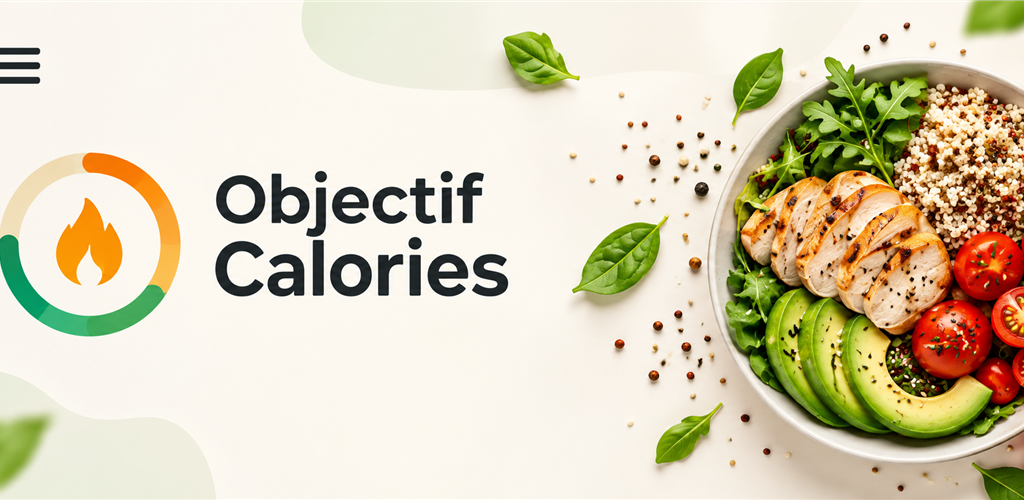
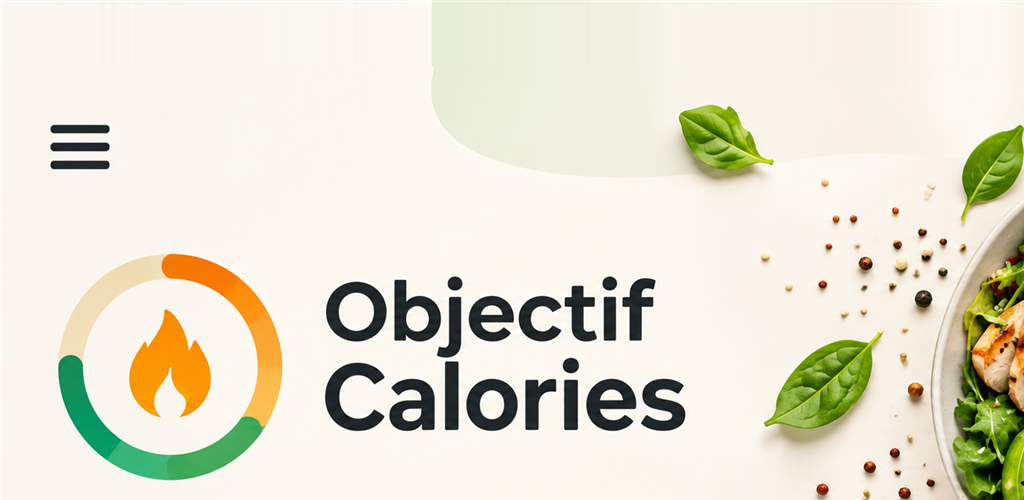
Agrandit le bouton menu de l'en-tête, ajoute les captures d'écran et une section dédiée à la suppression des données
- AppTopBar : le hamburger est maintenant une vraie icône vectorielle plus
  grande par-dessus la bannière (au lieu du minuscule hamburger dessiné dans
  l'image), avec une marge ajoutée en haut de l'image pour que le logo ne
  soit plus collé au bord.
- Captures d'écran réelles ajoutées pour la fiche Play Store, feature graphic
  régénéré à partir de la bannière mise à jour.
- Politique de confidentialité : nouvelle section "Suppression de vos
  données" dédiée, pour la déclaration Sécurité des données de Play Console.

diff --git a/app/src/main/java/com/legoueix/objectifcalories/ui/AppTopBar.kt b/app/src/main/java/com/legoueix/objectifcalories/ui/AppTopBar.kt
@@ -1,12 +1,17 @@
 package com.legoueix.objectifcalories.ui
 
 import androidx.compose.foundation.Image
+import androidx.compose.foundation.background
 import androidx.compose.foundation.layout.Box
 import androidx.compose.foundation.layout.aspectRatio
 import androidx.compose.foundation.layout.fillMaxWidth
 import androidx.compose.foundation.layout.padding
 import androidx.compose.foundation.layout.size
 import androidx.compose.foundation.layout.statusBarsPadding
+import androidx.compose.foundation.shape.CircleShape
+import androidx.compose.material.icons.Icons
+import androidx.compose.material.icons.filled.Menu
+import androidx.compose.material3.Icon
 import androidx.compose.material3.IconButton
 import androidx.compose.material3.MaterialTheme
 import androidx.compose.material3.Surface
@@ -20,11 +25,16 @@ import androidx.compose.ui.semantics.contentDescription
 import androidx.compose.ui.semantics.semantics
 import androidx.compose.ui.unit.dp
 import com.legoueix.objectifcalories.R
+import com.legoueix.objectifcalories.ui.theme.Charcoal
+import com.legoueix.objectifcalories.ui.theme.OffWhite
 
-// Ratio réel du bandeau (1879 × 837 px) : affiché intact, sans recadrage, pour ne
-// perdre ni le logo ni la photo — demandé explicitement tel quel malgré la place
-// que ça prend sur un écran de téléphone.
-private const val RATIO_BANNIERE = 1879f / 837f
+// Image affichée intacte (photo d'assiette comprise) — recadrer/zoomer pour agrandir
+// le bouton menu mangeait la photo (déjà essayé, refusé). À la place : un vrai bouton
+// ☰ (vectoriel, donc net à toute taille) dessiné par-dessus, sur un disque qui masque
+// le minuscule hamburger déjà présent dans l'image. L'asset a aussi une bande de marge
+// ajoutée en haut (837 → 927 px de haut, largeur inchangée) pour que "Objectif
+// Calories" ne soit plus collé au bord et paraisse plus bas dans le bandeau.
+private const val RATIO_BANNIERE = 1879f / 927f
 
 @Composable
 fun AppTopBar(onOpenMenu: () -> Unit, modifier: Modifier = Modifier) {
@@ -43,16 +53,22 @@ fun AppTopBar(onOpenMenu: () -> Unit, modifier: Modifier = Modifier) {
                     .fillMaxWidth()
                     .aspectRatio(RATIO_BANNIERE),
             )
-            // Le bouton menu est déjà dessiné dans l'image (coin haut-gauche) : cette zone
-            // transparente le rend cliquable au même endroit sans le dessiner une deuxième fois.
             IconButton(
                 onClick = onOpenMenu,
                 modifier = Modifier
                     .align(Alignment.TopStart)
-                    .padding(top = 4.dp)
-                    .size(52.dp)
+                    .padding(6.dp)
+                    .size(56.dp)
+                    .background(OffWhite, CircleShape)
                     .semantics { contentDescription = descriptionMenu },
-            ) {}
+            ) {
+                Icon(
+                    imageVector = Icons.Default.Menu,
+                    contentDescription = null,
+                    tint = Charcoal,
+                    modifier = Modifier.size(34.dp),
+                )
+            }
         }
     }
 }

diff --git a/docs/index.html b/docs/index.html
@@ -152,6 +152,29 @@
       <a href="mailto:twan.applis@gmail.com">twan.applis@gmail.com</a>.</p>
     </section>
 
+    <section id="suppression-donnees">
+      <h2>Suppression de vos données (Objectif Calories)</h2>
+      <p>Objectif Calories ne stocke vos données (repas, pesées, hydratation, activités)
+      que localement sur votre téléphone — nous n'en conservons aucune copie sur un
+      serveur. La suppression est donc immédiate et entièrement sous votre contrôle,
+      sans avoir besoin de nous contacter :</p>
+      <ul>
+        <li><strong>Supprimer une entrée précise</strong> : ouvrez l'écran d'historique
+        concerné (repas, poids, eau, activités) dans l'application, puis supprimez
+        l'entrée voulue (glisser vers la gauche ou icône de suppression selon l'écran).
+        La suppression est immédiate et définitive.</li>
+        <li><strong>Supprimer toutes vos données d'un coup</strong> : désinstallez
+        l'application. L'ensemble de votre historique, stocké uniquement sur votre
+        appareil, est alors effacé avec elle.</li>
+      </ul>
+      <p><strong>Ce qui est supprimé :</strong> l'intégralité des données que vous avez
+      enregistrées dans l'app (repas, photos associées, pesées, hydratation, activités).
+      <strong>Ce qui n'est pas conservé au-delà :</strong> rien — Objectif Calories
+      n'ayant pas de serveur propre ni de compte utilisateur, il n'existe aucune copie
+      de vos données ailleurs que sur votre téléphone, donc aucune durée de conservation
+      supplémentaire après suppression.</p>
+    </section>
+
     <section>
       <h2>Modifications</h2>
       <p>Cette politique peut être mise à jour si l'application évolue (nouvelle
